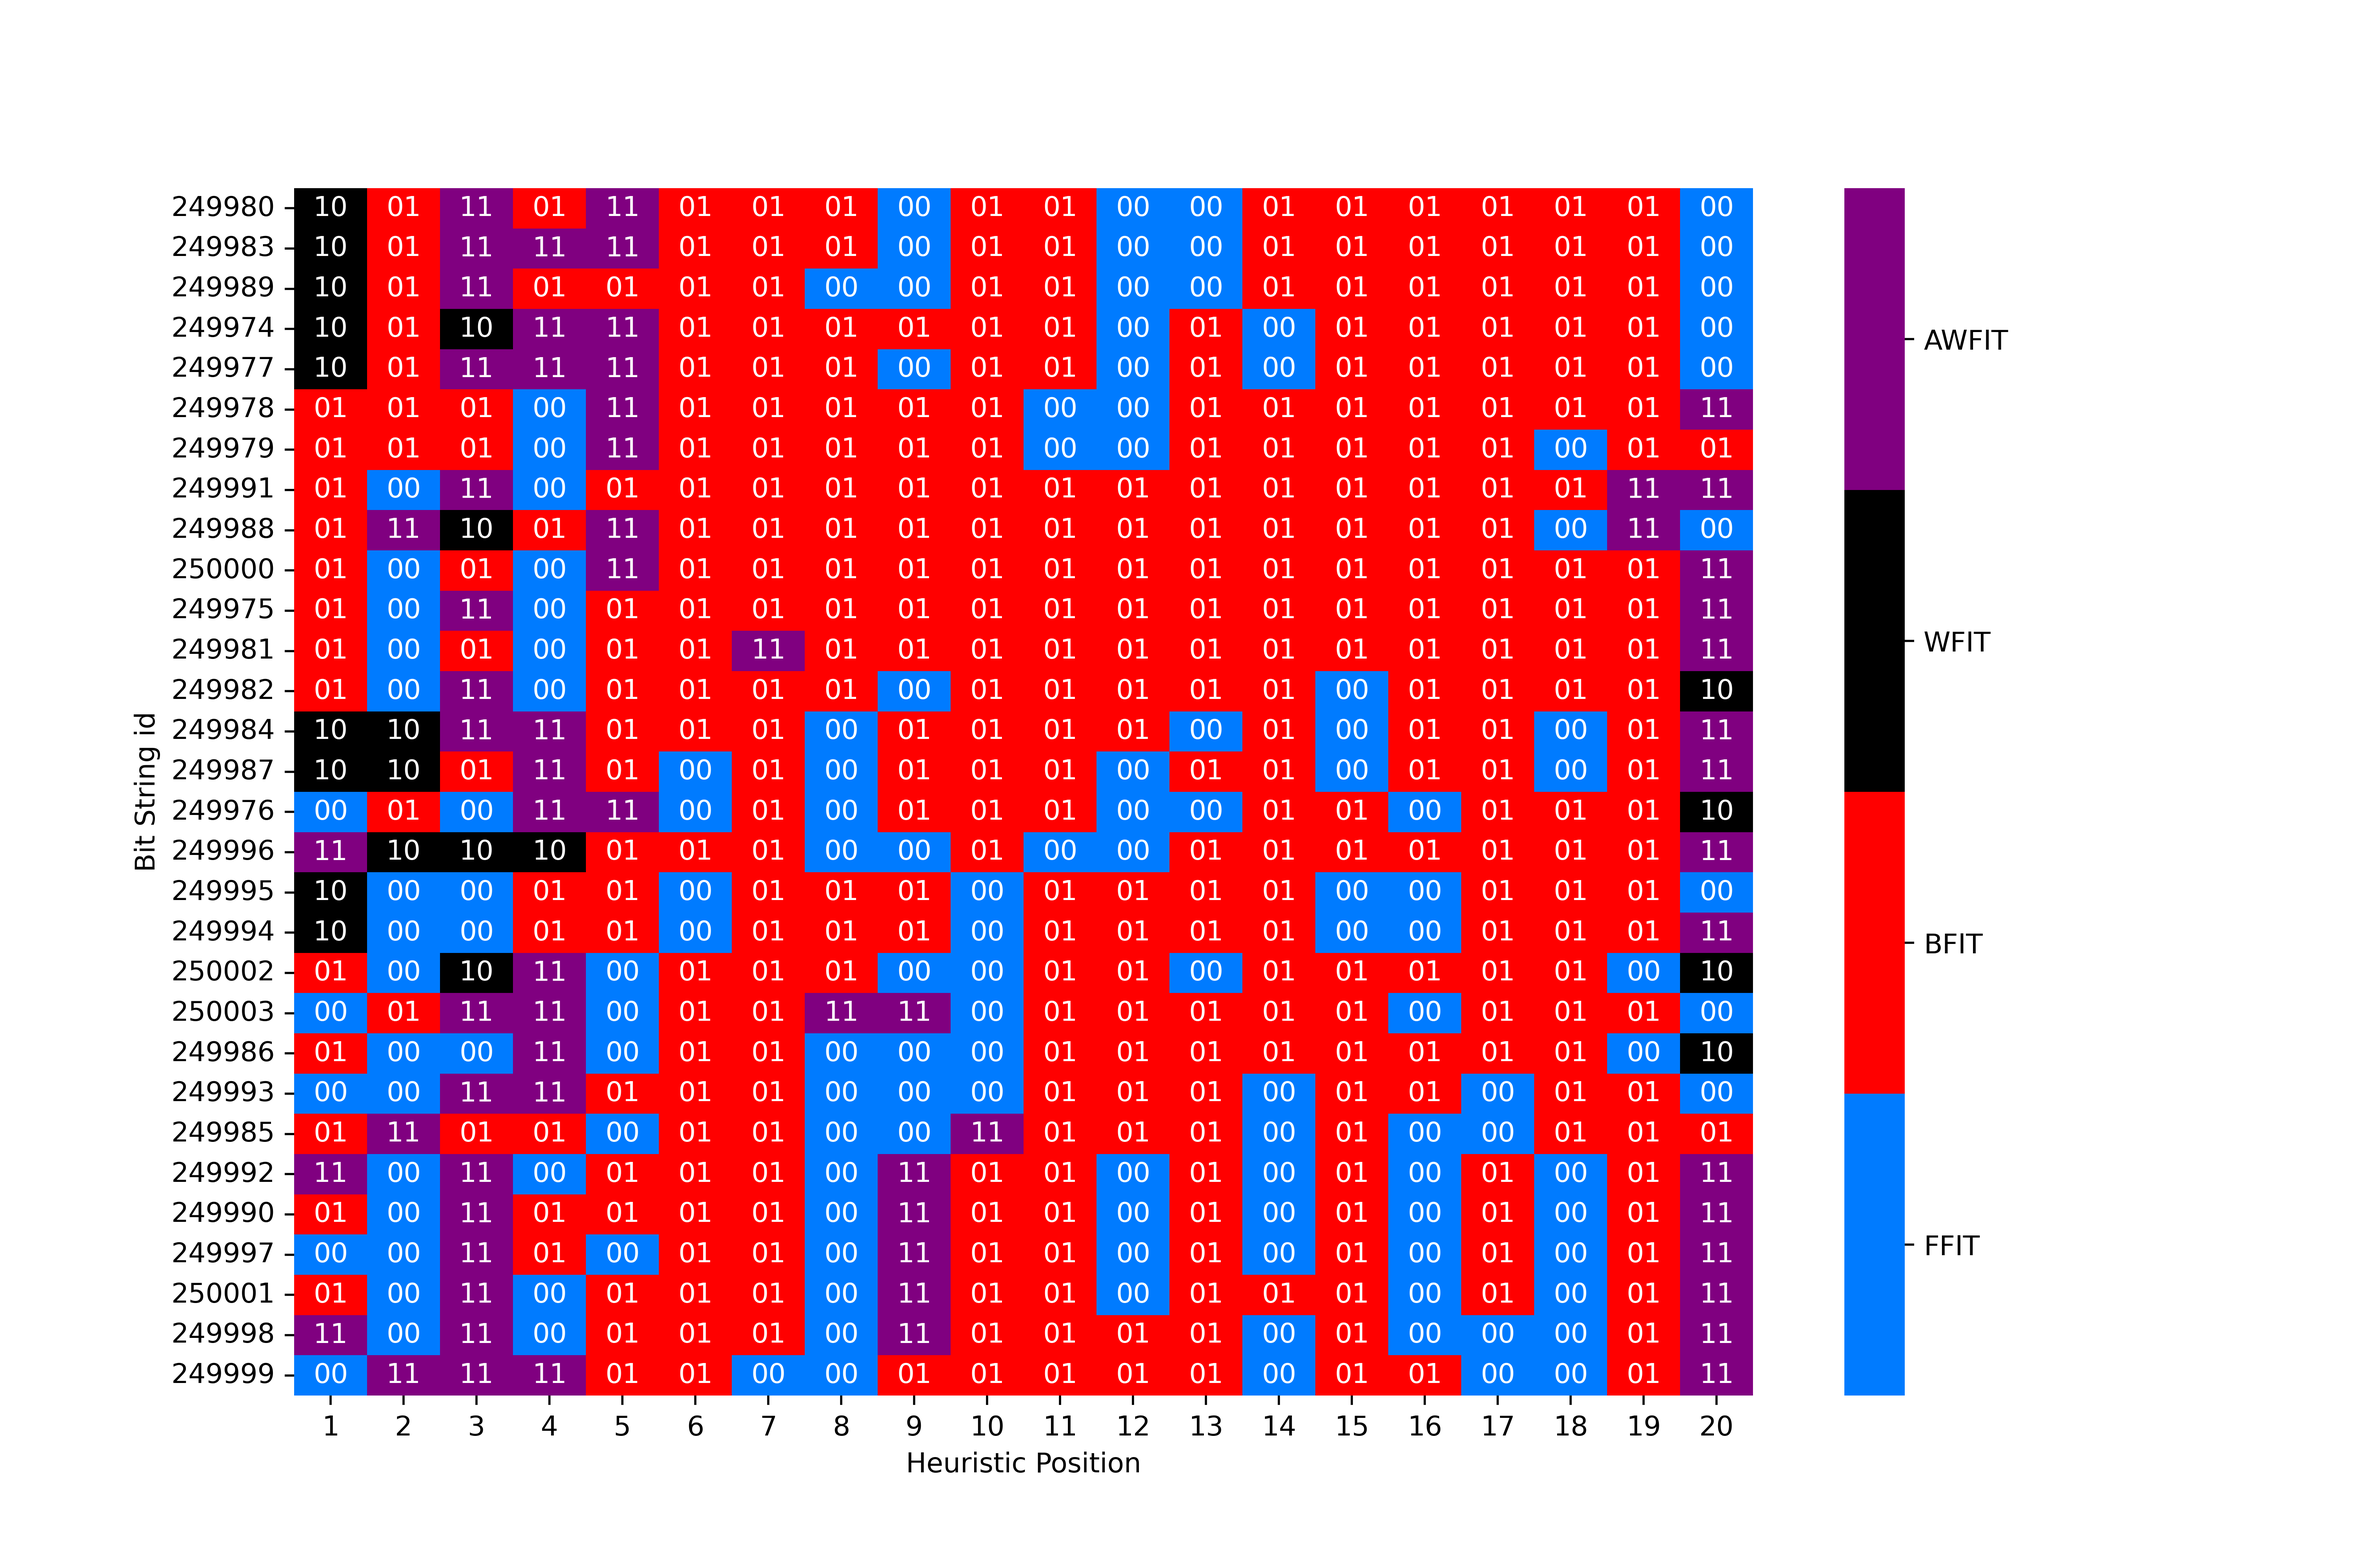
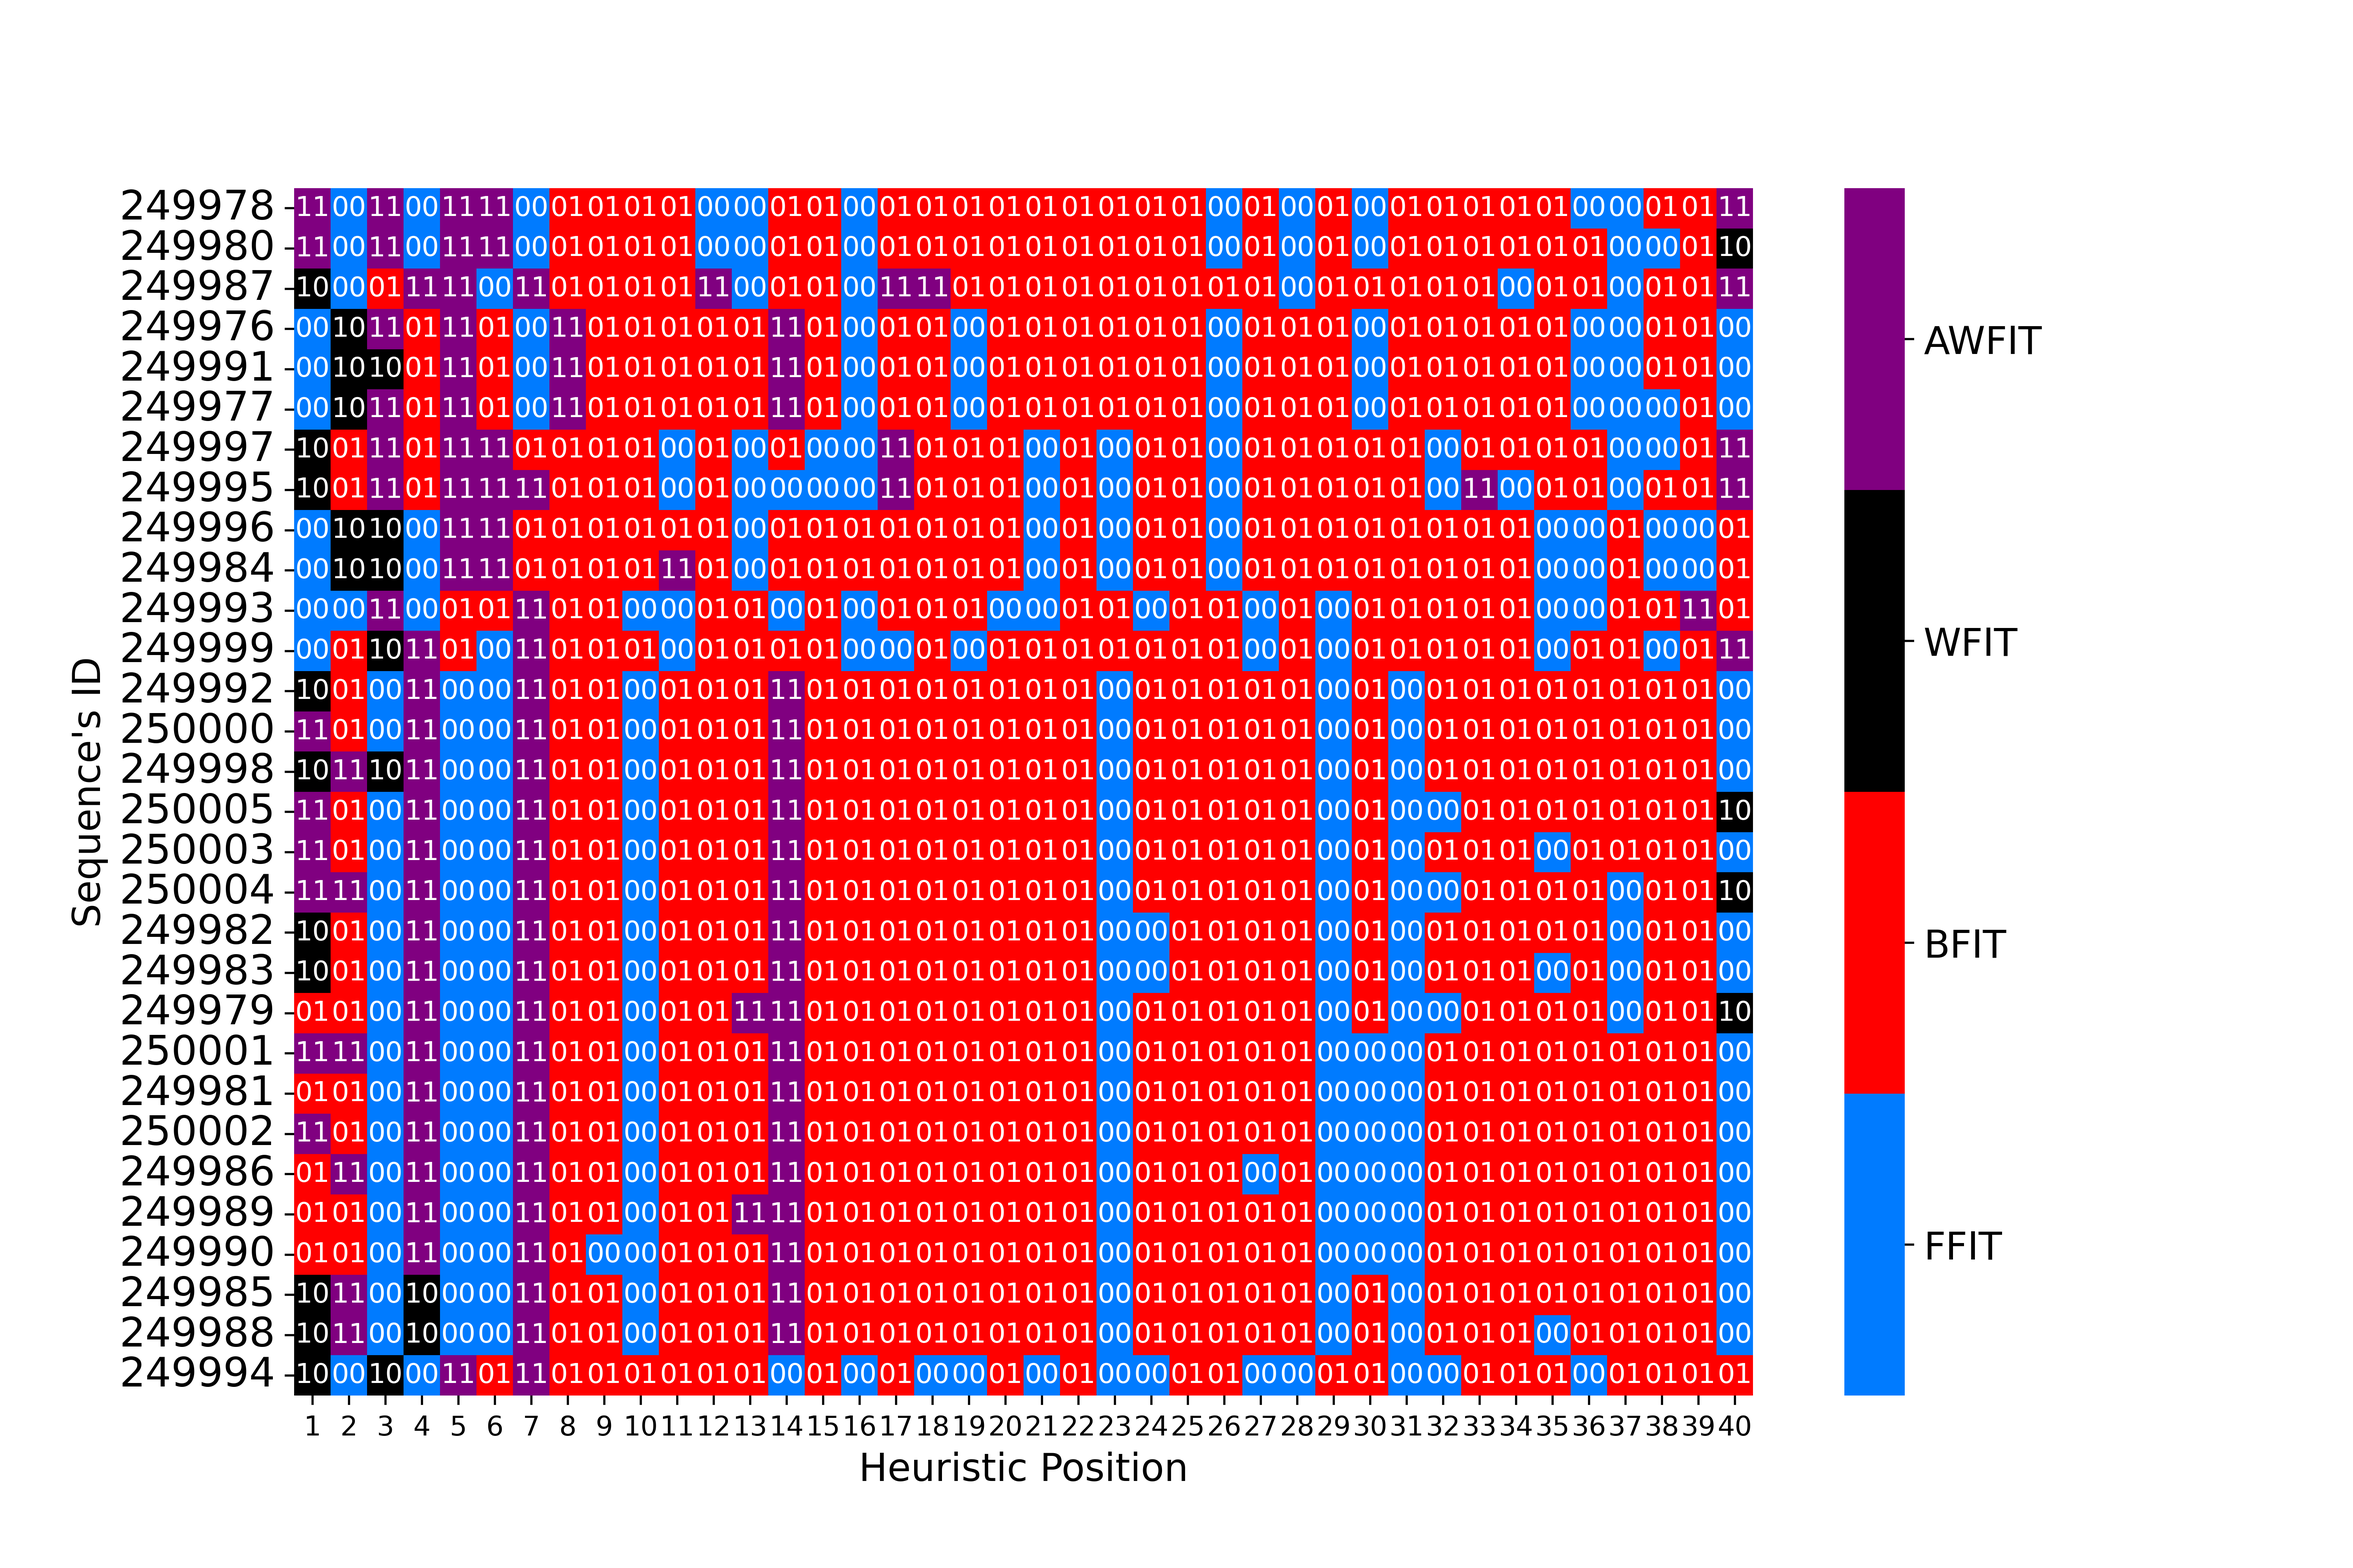
Fontsize of heatmaps is bigger now
Also the fontsize of the binary matrix is bigger

diff --git a/individuals_comp.py b/individuals_comp.py
@@ -5,7 +5,7 @@ import numpy as np
 from matplotlib.colors import LinearSegmentedColormap
 import os
 
-df_sequences_instances = pd.read_csv("df_sequences_instances_denisse.csv")
+df_sequences_instances = pd.read_csv("df_sequences_instances_Exp4.csv")
 print("HOLA")
 
 for filename in os.listdir('labels'):
@@ -59,9 +59,12 @@ for filename in os.listdir('labels'):
     # Manually specify colorbar labelling after it's been generated
     colorbar = ax.collections[0].colorbar
     colorbar.set_ticks([0.375, 1.125, 1.875, 2.625])
+    colorbar.ax.tick_params(labelsize=14)
     colorbar.set_ticklabels(['FFIT', 'BFIT', 'WFIT', 'AWFIT'])
 
     #plt.title(f"{filename[5:-4]}")
-    plt.xlabel("Heuristic Position")
-    plt.ylabel("Bit String id")
+    plt.xlabel("Heuristic Position", fontsize=14)
+    plt.xticks(fontsize=10)  # Aumentar tamaño de las etiquetas del eje x
+    plt.yticks(fontsize=15, rotation =0)
+    plt.ylabel("Sequence's ID", fontsize=14)
     plt.savefig(os.path.join('individuals_comps', f'{filename[5:-4]}.png'), dpi=500.0)

diff --git a/clustering.py b/clustering.py
@@ -15,12 +15,15 @@ import os
 
 def clustermap_analysis(df, filename):
 
-    g = sns.clustermap(df, cmap="RdYlBu_r", cbar_kws={'label': 'Color Scale', 'ticks': [df.min().min(), df.max().max()], 'orientation': 'vertical', 'fontsize': 14})
+    g = sns.clustermap(df, cmap="RdYlBu_r")
     y_labels = g.dendrogram_row.reordered_ind
     y_labels_df = pd.DataFrame({'y_labels': [df.index[i] for i in y_labels]})
     
-    g.ax_heatmap.set_yticklabels(g.ax_heatmap.get_ymajorticklabels(), fontsize=19)
+    g.ax_heatmap.set_yticklabels(g.ax_heatmap.get_ymajorticklabels(), fontsize=17, rotation=0)
     g.ax_heatmap.set_xticklabels([])  # Remove x-axis labels
+
+    cbar = g.ax_heatmap.collections[0].colorbar
+    cbar.ax.tick_params(labelsize=17)
 
     g.savefig(filename)
     y_labels_df.to_csv(os.path.join('labels', f'y_ls_{filename[:-4]}.csv'))
